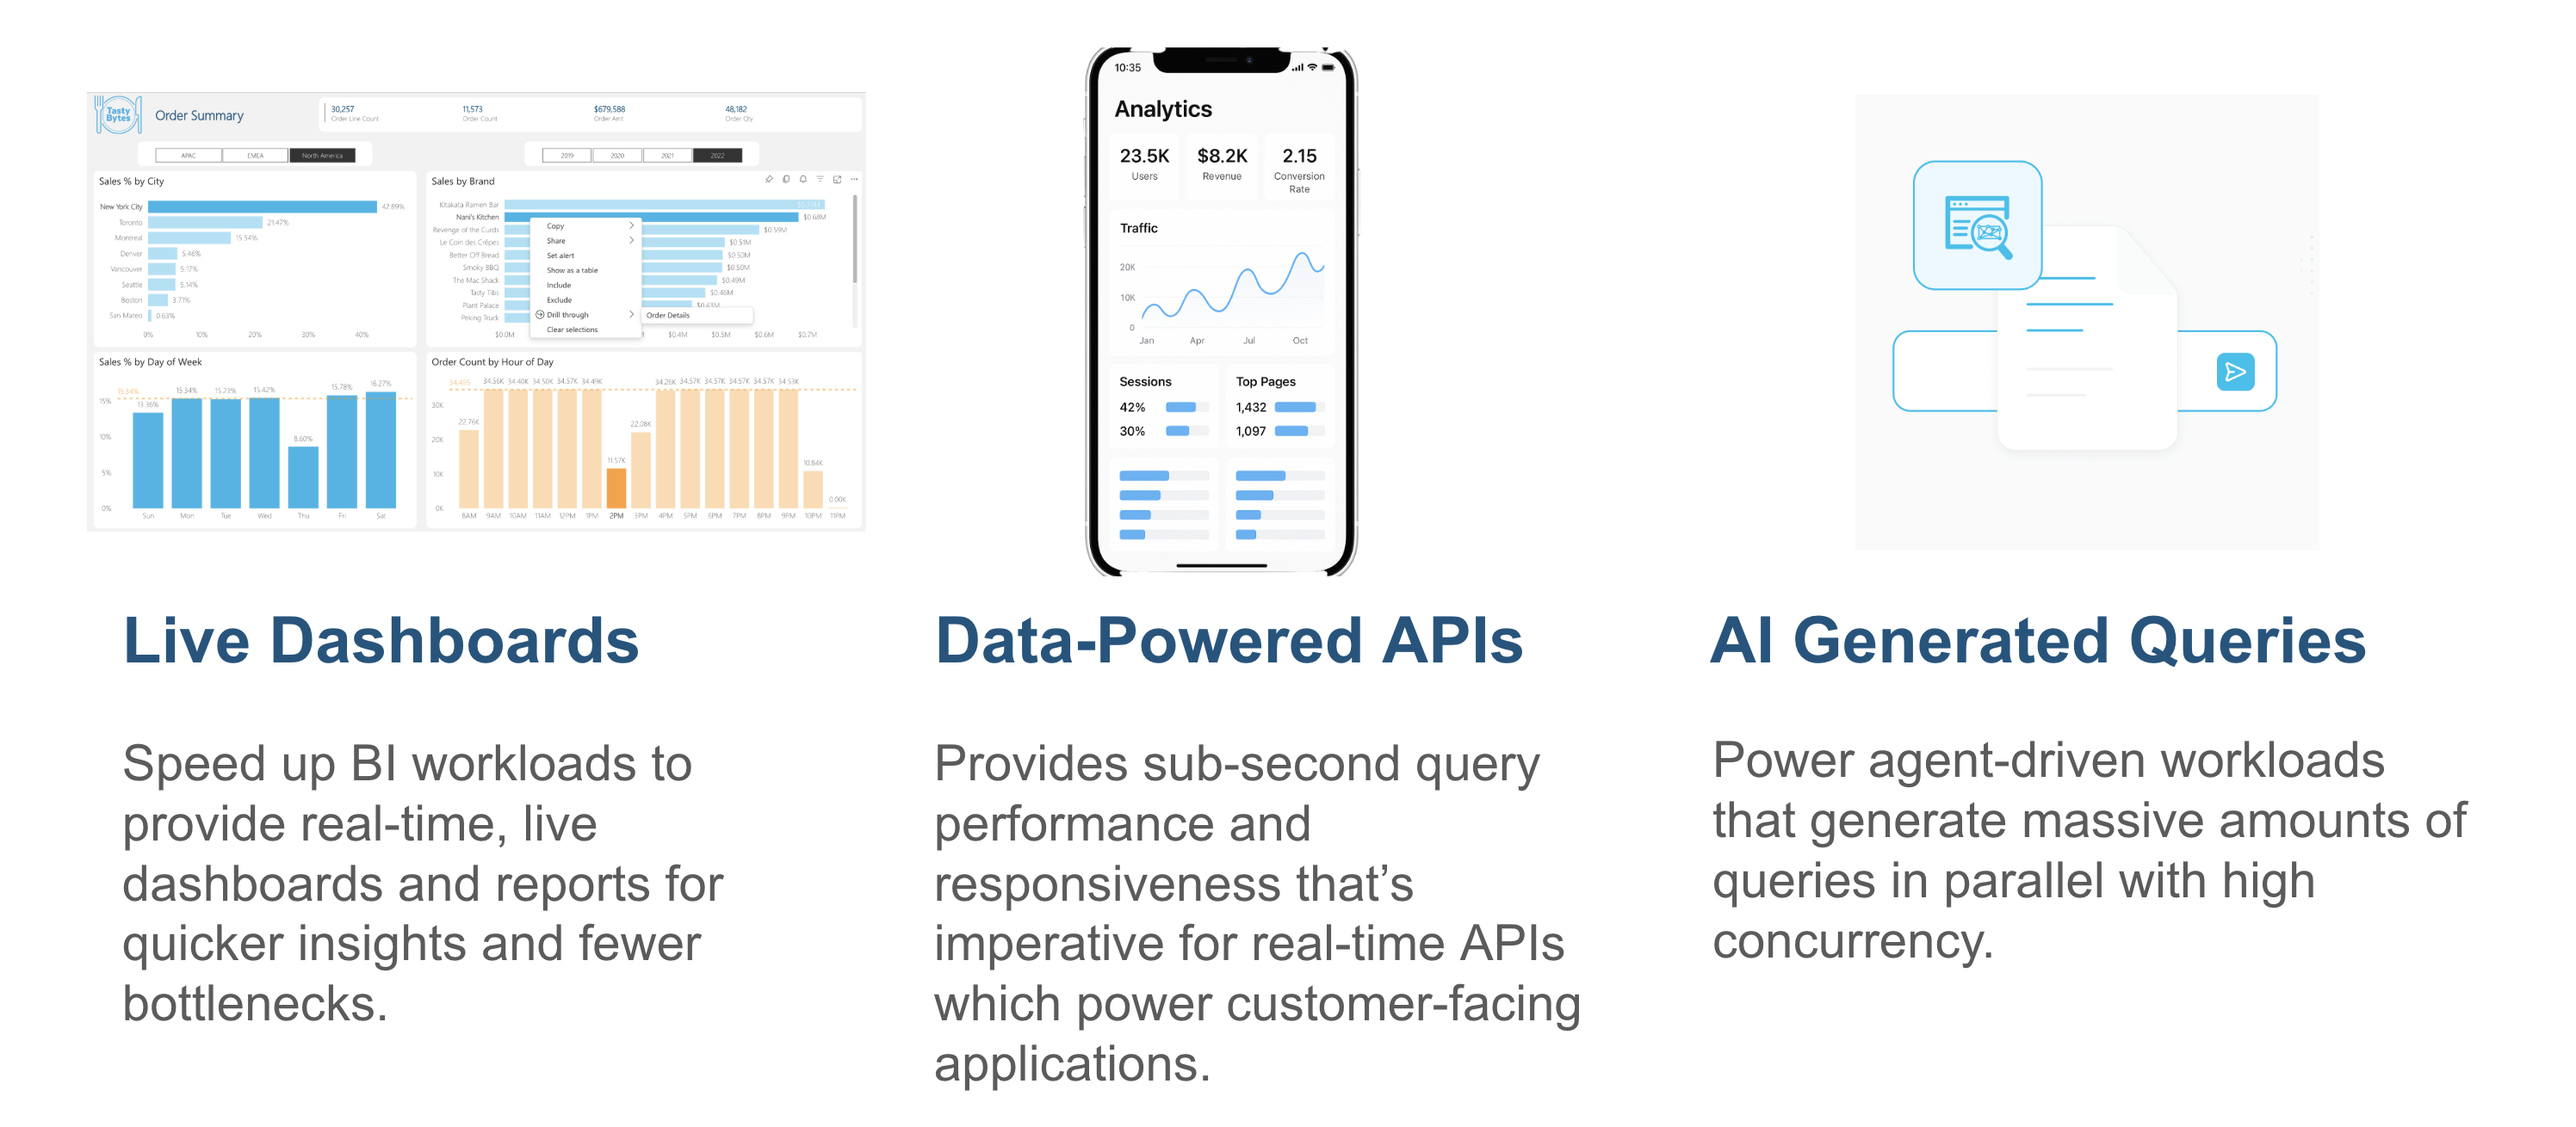
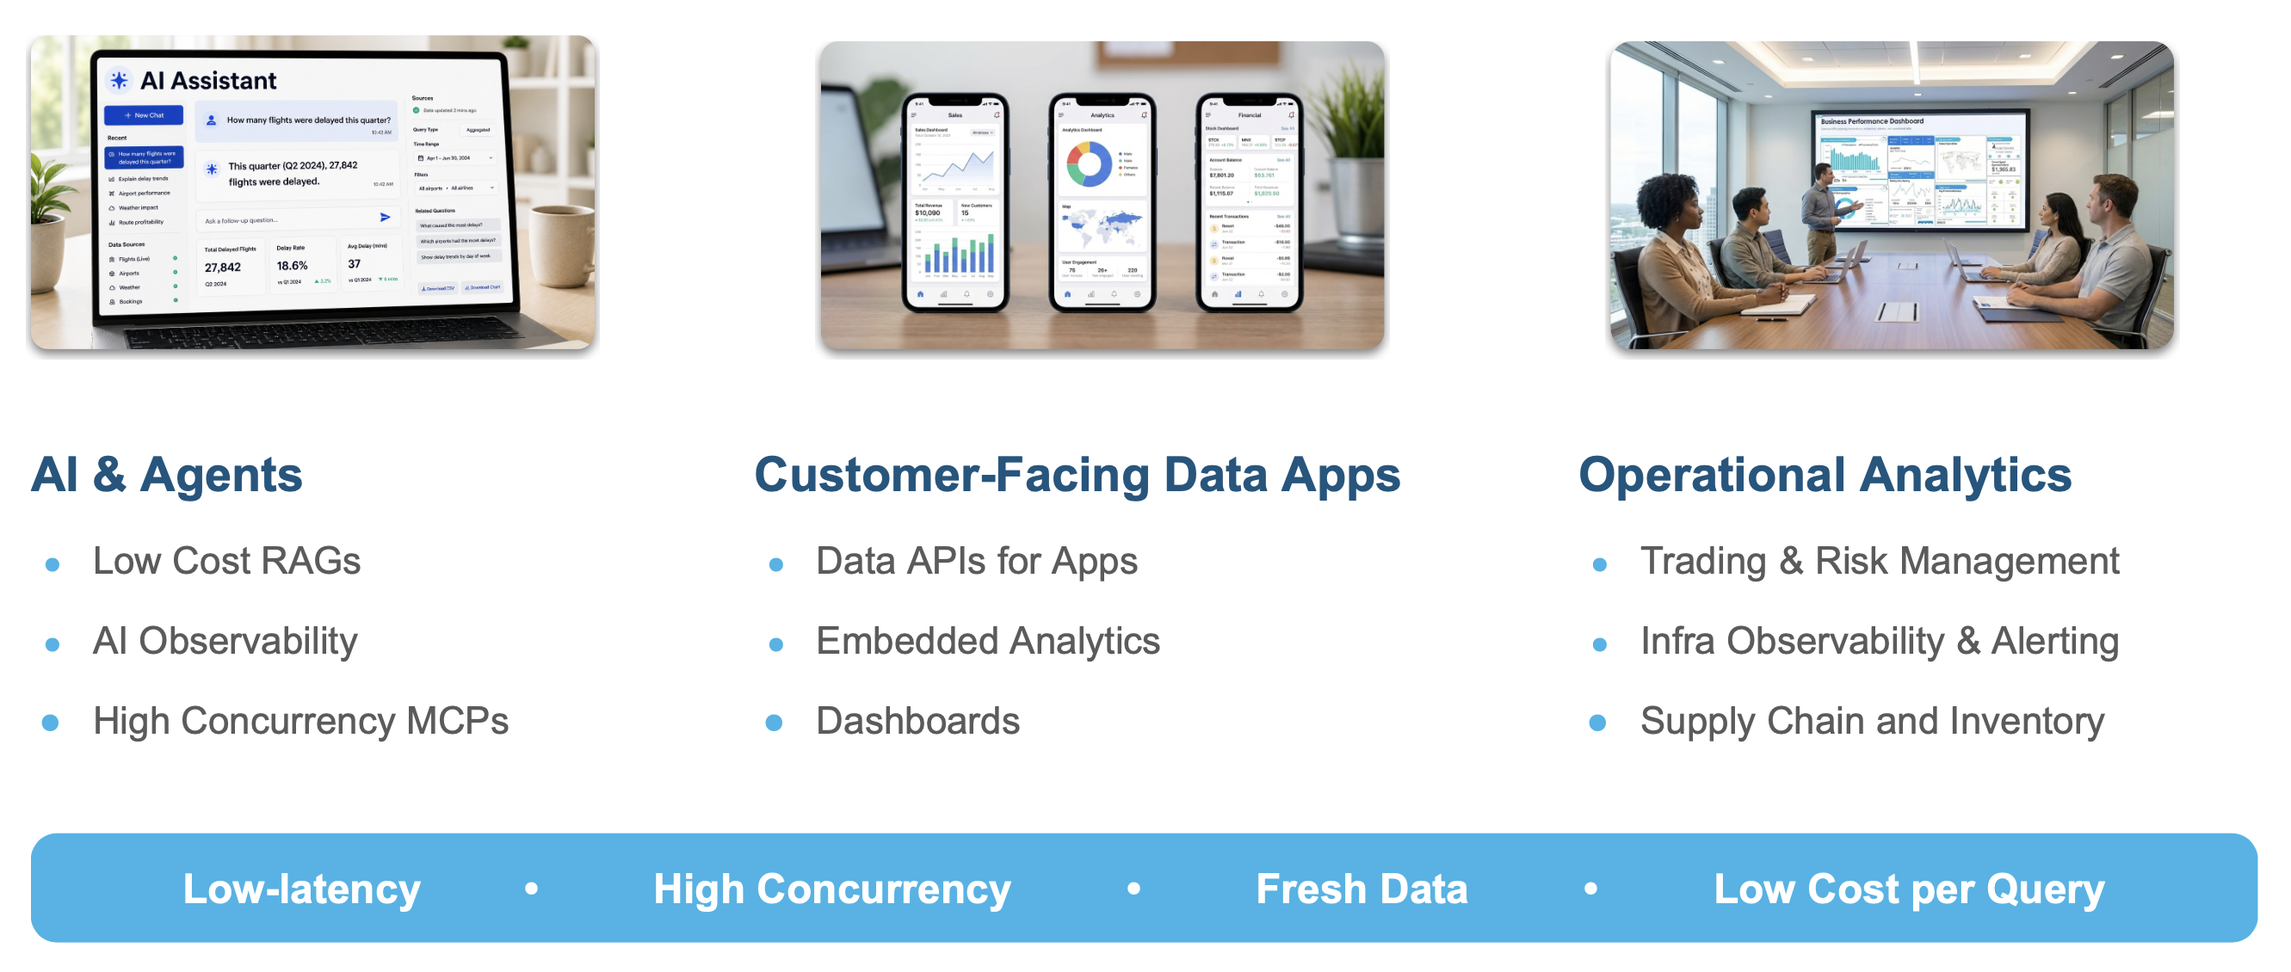
Defer zero-copy content; rewrite Use cases section + refresh diagram
Keep Pattern 1 (interactive table) as the hands-on demo and defer zero-copy (Pattern 2) to a future quickstart: removed the zero-copy What You'll Learn bullet, the dedicated Zero-copy section and SQL example, and related mentions from the quickstart and notebook. Rewrote the Use cases section around three domains (AI & Agents, Customer-Facing Data Apps, Operational Analytics) with updated examples and the low-latency/high-concurrency/fresh-data/low-cost framing, and replaced use-cases.png with the matching updated diagram.

diff --git a/quickstart/getting-started-with-interactive-tables/getting-started-with-interactive-tables.md b/quickstart/getting-started-with-interactive-tables/getting-started-with-interactive-tables.md
@@ -23,7 +23,6 @@ Here's how interactive warehouses and tables fits in for a typical data analytic
 - The core concepts behind Snowflake's Interactive Warehouses and Tables and how they provide low-latency analytics.
 - How to create and configure an Interactive Warehouse using SQL.
 - The process of creating an Interactive Table from an existing standard table.
-- How zero-copy interactive analytics (public preview) lets an Interactive Warehouse query standard tables directly, with no conversion required.
 - How to attach a table to an Interactive Warehouse to pre-warm the data cache for faster queries.
 - A methodology for benchmarking and comparing the query latency of an interactive setup versus a standard warehouse.
 
@@ -46,44 +45,25 @@ Think of them as a high-performance pair. Interactive tables are structured for 
 ![](assets/interactive-tables-and-warehouses.png)
 
 ### Interactive Warehouses
-An interactive warehouse tunes the Snowflake engine specially for low-latency, interactive workloads. This type of warehouse is optimized to run continuously, serving high volumes of concurrent queries. All interactive warehouses run on the latest generation of hardware. Interactive warehouses can query interactive tables and, with zero-copy interactive analytics (in public preview), standard tables directly.
+An interactive warehouse tunes the Snowflake engine specially for low-latency, interactive workloads. This type of warehouse is optimized to run continuously, serving high volumes of concurrent queries. All interactive warehouses run on the latest generation of hardware. Interactive warehouses can query interactive tables.
 
 ### Interactive Tables
 Interactive tables have different methods for data ingestion and support a more limited set of SQL statements and query operators than standard Snowflake tables.
 
-### Zero-copy interactive analytics (Public Preview)
-
-> Note: Querying standard tables through an interactive warehouse is in Public Preview and available to all accounts.
-
-Originally, an interactive warehouse could only query interactive tables, which meant you first had to copy or convert your data into an interactive table. With **zero-copy interactive analytics**, an interactive warehouse can now query your **standard tables (and their views) directly** — with no `CREATE INTERACTIVE TABLE`, no CTAS, and no `TARGET_LAG` refresh pipeline to manage.
-
-This means you can simply point an interactive warehouse at the tables you already have:
-
-```sql
-CREATE OR REPLACE INTERACTIVE WAREHOUSE my_dashboard_wh WAREHOUSE_SIZE = 'XSMALL';
-USE WAREHOUSE my_dashboard_wh;
-
--- Query an existing standard table directly, no conversion required
-SELECT customer_segment, COUNT(*), SUM(revenue)
-FROM analytics.core.orders
-WHERE order_date >= CURRENT_DATE() - 30
-GROUP BY customer_segment;
-```
-
-With this approach, `ALTER WAREHOUSE ... ADD TABLES` is no longer a prerequisite; it becomes a performance *optimization*. Attaching a table proactively warms the warehouse's data cache so queries avoid a cold-start penalty, while any unattached table is still fully queryable and cached on demand the first time it's accessed.
-
-A few things to keep in mind:
-- Clustering source tables isn't required, but it's highly recommended for better partition pruning and performance.
-- Proactive cache warming with `ADD TABLES` is currently limited to 10 tables. This limits only what is pre-warmed, not what you can query.
-- Interactive warehouses cap query run time at 5 seconds. Configure a fallback warehouse so that longer queries transparently re-run on a standard warehouse instead of failing.
-- Interactive tables remain the best choice for workloads with the strictest tail-latency (p99) SLAs or specialized clustering needs.
-
 ### Use cases
-Snowflake interactive tables are optimized for fast, simple queries when you require consistent low-latency responses. Interactive warehouses provide the compute resources required to serve these queries efficiently. Together, they enable use cases such as live dashboards, data-powered APIs, and serving high-concurrency workloads.
+Interactive warehouses and interactive tables are built for one specific shape of work: simple, repetitive queries that must return in well under a second, run at high concurrency, against fresh data, and at a low cost per query. These aren't the complex, long-running transformations you'd send to a standard warehouse — they're the same handful of query patterns executed over and over, by thousands of users and, increasingly, by AI agents. Wherever that pattern shows up, this pairing is a strong fit.
 
 ![](assets/use-cases.png)
 
-Furthermore, this pairing of interactive warehouses and tables is ideal for a range of specific, demanding use cases where sub-second query performance is paramount. In industries like ad-tech, IoT, and video analytics, it can power near real-time decisioning on massive event streams. For application development, it enables highly responsive data-powered APIs and in-app user behavior analytics. It's also perfectly suited for internal analytics, providing the speed needed for live dashboards, BI acceleration, and critical observability/APM systems that require high-throughput alerting.
+Three domains capture where it matters most:
+
+**AI & Agents.** Agentic and AI-driven applications fire off large volumes of small, concurrent queries — a retrieval step here, a metric lookup there — and each one needs to come back instantly and cheaply. Interactive warehouses make this practical for low-cost RAG retrieval, AI observability (monitoring model and agent behavior in near real time), and high-concurrency MCP servers that expose your data to many agents at once.
+
+**Customer-Facing Data Apps.** When query latency is visible to your end users, consistency matters as much as raw speed. This pairing powers data APIs that serve predictable, sub-second responses to customer-facing applications, embedded analytics inside your product, and live dashboards that stay responsive even under heavy, simultaneous use.
+
+**Operational Analytics.** Internal, decision-driving workloads depend on fresh data and fast answers. Interactive warehouses and tables suit trading and risk management, infrastructure observability and alerting (high-throughput monitoring where every second counts), and supply chain and inventory tracking that must reflect the latest state of the business.
+
+What unites all of these is the same set of requirements — low latency, high concurrency, fresh data, and low cost per query — met by simple queries repeated at scale. That is exactly the workload interactive warehouses and tables were designed for.
 
 
 ### Limitations
@@ -93,8 +73,7 @@ The queries that work best with interactive tables are usually `SELECT` statemen
 Here are some limitations of interactive warehouses and interactive tables:
 - An interactive warehouse is designed to stay up and running. It supports auto-suspend and auto-resume, but the minimum auto-suspend interval is 24 hours (86400 seconds), so it suspends only after 24 hours of inactivity. You can also suspend and resume it manually. Either way, expect significant query latency right after a resume, while the data cache warms up again.
 - Interactive warehouses cancel any query that runs longer than 5 seconds, since they're tuned for short, low-latency queries. To protect p99 latency, configure a fallback warehouse so those queries are transparently re-run on a standard warehouse (see the "Configure a fallback warehouse" section below). Interactive tables also don't support ETL or data manipulation language (DML) commands such as `UPDATE` and `DELETE`.
-- To modify data: if you're using an interactive table, update the base (source) table and either fully replace the interactive table with a new version or use a dynamic-table-style incremental refresh (set `TARGET_LAG`). If you're querying a standard table directly, no additional step is needed — changes to the source data are reflected automatically.
-- With zero-copy interactive analytics (public preview), an interactive warehouse can query standard tables directly, in addition to interactive tables.
+- To modify data, update the base (source) table and either fully replace the interactive table with a new version or use a dynamic-table-style incremental refresh (set `TARGET_LAG`).
 - You can't run `CALL` commands to call stored procedures through interactive warehouse
 
 <!-- ------------------------ -->
@@ -287,8 +266,6 @@ INTERACTIVE WAREHOUSE INTERACTIVE_DEMO_B successfully created.
 ### Create an interactive table
 
 ![](assets/create-interactive-table.png)
-
-> Note: With zero-copy interactive analytics (public preview), creating an interactive table is now optional — an interactive warehouse can query the standard `HITS2_CSV` table directly. We still create an interactive table here to demonstrate that path and to enable a head-to-head performance comparison later in this guide.
 
 Now, we'll use the standard `WH` warehouse to efficiently create our new interactive `CUSTOMERS` table by copying all the data from the original standard table:
 

diff --git a/changes-by-section.md b/changes-by-section.md
@@ -5,7 +5,7 @@ Columns: the quickstart/notebook section the change touched, which artifact it a
 Requested changes (from the review feedback):
 - R1 — remove the version / account-parameter checks (Interactive Warehouses and Tables are GA and enabled by default).
 - R2 — use native SQL cells where possible instead of running SQL via Python, using the Snowflake Notebook's SQL/Python cells.
-- R3 — note that standard tables can be queried directly now (zero-copy) — no need to convert them to interactive tables.
+- R3 — note that standard tables can be queried directly now (zero-copy). **Deferred:** this content was removed and saved to `zero-copy-deferred-content.md` for a future, dedicated quickstart. The demo stays on the GA interactive-table path; zero-copy (querying standard tables directly) is Public Preview.
 - R4 — add fallback warehouses for queries that run over 5 seconds.
 - R5 — clarify auto-suspend / auto-resume and the 24-hour minimum auto-suspend in Limitations.
 - R6 — call out configuring a fallback warehouse (protects p99) in the Limitations section.
@@ -18,13 +18,12 @@ A code in the "Requested change" column means that request is addressed by the r
 | --- | --- | --- | --- |
 | Frontmatter (categories) | Quickstart | — | Replaced the incorrect hybrid-tables taxonomy tag with interactive-tables and interactive-warehouse. |
 | Prerequisites | Quickstart | — | Updated the required role to ACCOUNTADMIN. |
-| What You'll Learn | Quickstart | R3 | Added a bullet on zero-copy interactive analytics. |
-| Understand - Interactive Warehouses | Quickstart | R3 | Corrected the claim that interactive warehouses can only query interactive tables. |
-| Understand - Zero-copy interactive analytics | Quickstart | R3 | Added this new section: querying standard tables directly, ADD TABLES as an optional optimization, and the caveats (clustering, ten-table warming cap, five-second timeout, when to still use interactive tables). |
-| Understand - Limitations | Quickstart | R3 | Removed the incorrect claim that standard tables can't be queried; states standard tables are supported directly (dropped the tangential hybrid-tables and Iceberg-tables mentions). |
+| What You'll Learn / Understand - Interactive Warehouses / Understand - Zero-copy | Quickstart | R3 (deferred) | Zero-copy content that was added earlier — the What You'll Learn bullet, the "standard tables directly" clause in Interactive Warehouses, and the whole "Zero-copy interactive analytics" section (with its SQL example) — was removed and saved to `zero-copy-deferred-content.md` for a future quickstart. The Interactive Warehouses paragraph now reads "can query interactive tables." |
+| Understand - Limitations | Quickstart | — | Dropped the tangential hybrid-tables and Iceberg-tables mentions, and removed the standalone zero-copy bullet (deferred with the rest of the zero-copy content). |
+| Understand - Use cases | Quickstart | — | Rewrote the section around a three-domain taxonomy (AI & Agents, Customer-Facing Data Apps, Operational Analytics) with new examples (low-cost RAG, AI observability, high-concurrency MCPs, embedded analytics, trading & risk, supply chain & inventory), and framed the shared requirements as low latency, high concurrency, fresh data, and low cost per query. Replaced `use-cases.png` with the matching updated diagram. |
 | Understand - Limitations | Quickstart | R5 | Clarified that interactive warehouses support auto-suspend/auto-resume, with a 24-hour minimum auto-suspend. |
 | Understand - Limitations | Quickstart | R6 | Called out configuring a fallback warehouse (protects p99) for queries that exceed the 5-second limit. |
-| Understand - Limitations | Quickstart | R7 | Fixed typos and clarified how to modify data: interactive tables need a base-table update plus a full replace or TARGET_LAG refresh; a standard table queried directly needs no extra step. |
+| Understand - Limitations | Quickstart | R7 | Fixed typos and clarified how to modify data: interactive tables need a base-table update plus a full replace or TARGET_LAG refresh. (The zero-copy "standard table needs no extra step" clause was removed with the deferred content.) |
 | Setup - Optional: Create warehouse | Quickstart | — | Kept as the warehouse-creation step (the notebook creates the warehouse in its setup cell instead). |
 | Setup - Step 5: Query the data | Quickstart, Notebook | — | Aligned the preview query so both use the same statement (added the standard warehouse selection). |
 | Load libraries and define custom functions | Quickstart, Notebook | R2 | Trimmed to the libraries the benchmark needs and removed the print helper, unused imports, and leftover placeholder data. |
@@ -33,8 +32,8 @@ A code in the "Requested change" column means that request is addressed by the r
 | Set up role, warehouse, and database | Notebook | — | Expanded the cell to also create the warehouse, database, and schemas if they do not already exist. |
 | The Data | Notebook | — | Added a self-contained, idempotent load that creates and fills the source table from the bundled file only when it is empty; removed the broken setup-script reference. |
 | Create an interactive warehouse | Quickstart, Notebook | R2 | Converted from Python to a native SQL cell. |
-| Create an interactive table | Quickstart, Notebook | R2, R3 | Converted to a SQL cell and added a note that this step is now optional (zero-copy). |
-| Attach interactive table to a warehouse | Quickstart, Notebook | R2, R3 | Converted to a SQL cell and added a note that attaching is a caching optimization, not a requirement. |
+| Create an interactive table | Quickstart, Notebook | R2 | Converted to a SQL cell. (The "this step is now optional" zero-copy note was removed and deferred.) |
+| Attach interactive table to a warehouse | Quickstart, Notebook | R2 | Converted to a SQL cell and added a note that attaching is a caching optimization, not a requirement (describes cache-warming behavior; no zero-copy dependency). |
 | Configure a fallback warehouse | Quickstart, Notebook | R4 | Added this new section on re-running queries that exceed the five-second limit on a standard warehouse. |
 | Run queries with interactive warehouse | Quickstart, Notebook | R2 | Moved the session setup into a SQL cell; the timed query stays in Python. |
 | Compare to a standard warehouse | Quickstart, Notebook | R2 | Moved the session setup into a SQL cell; the timed query stays in Python. |
